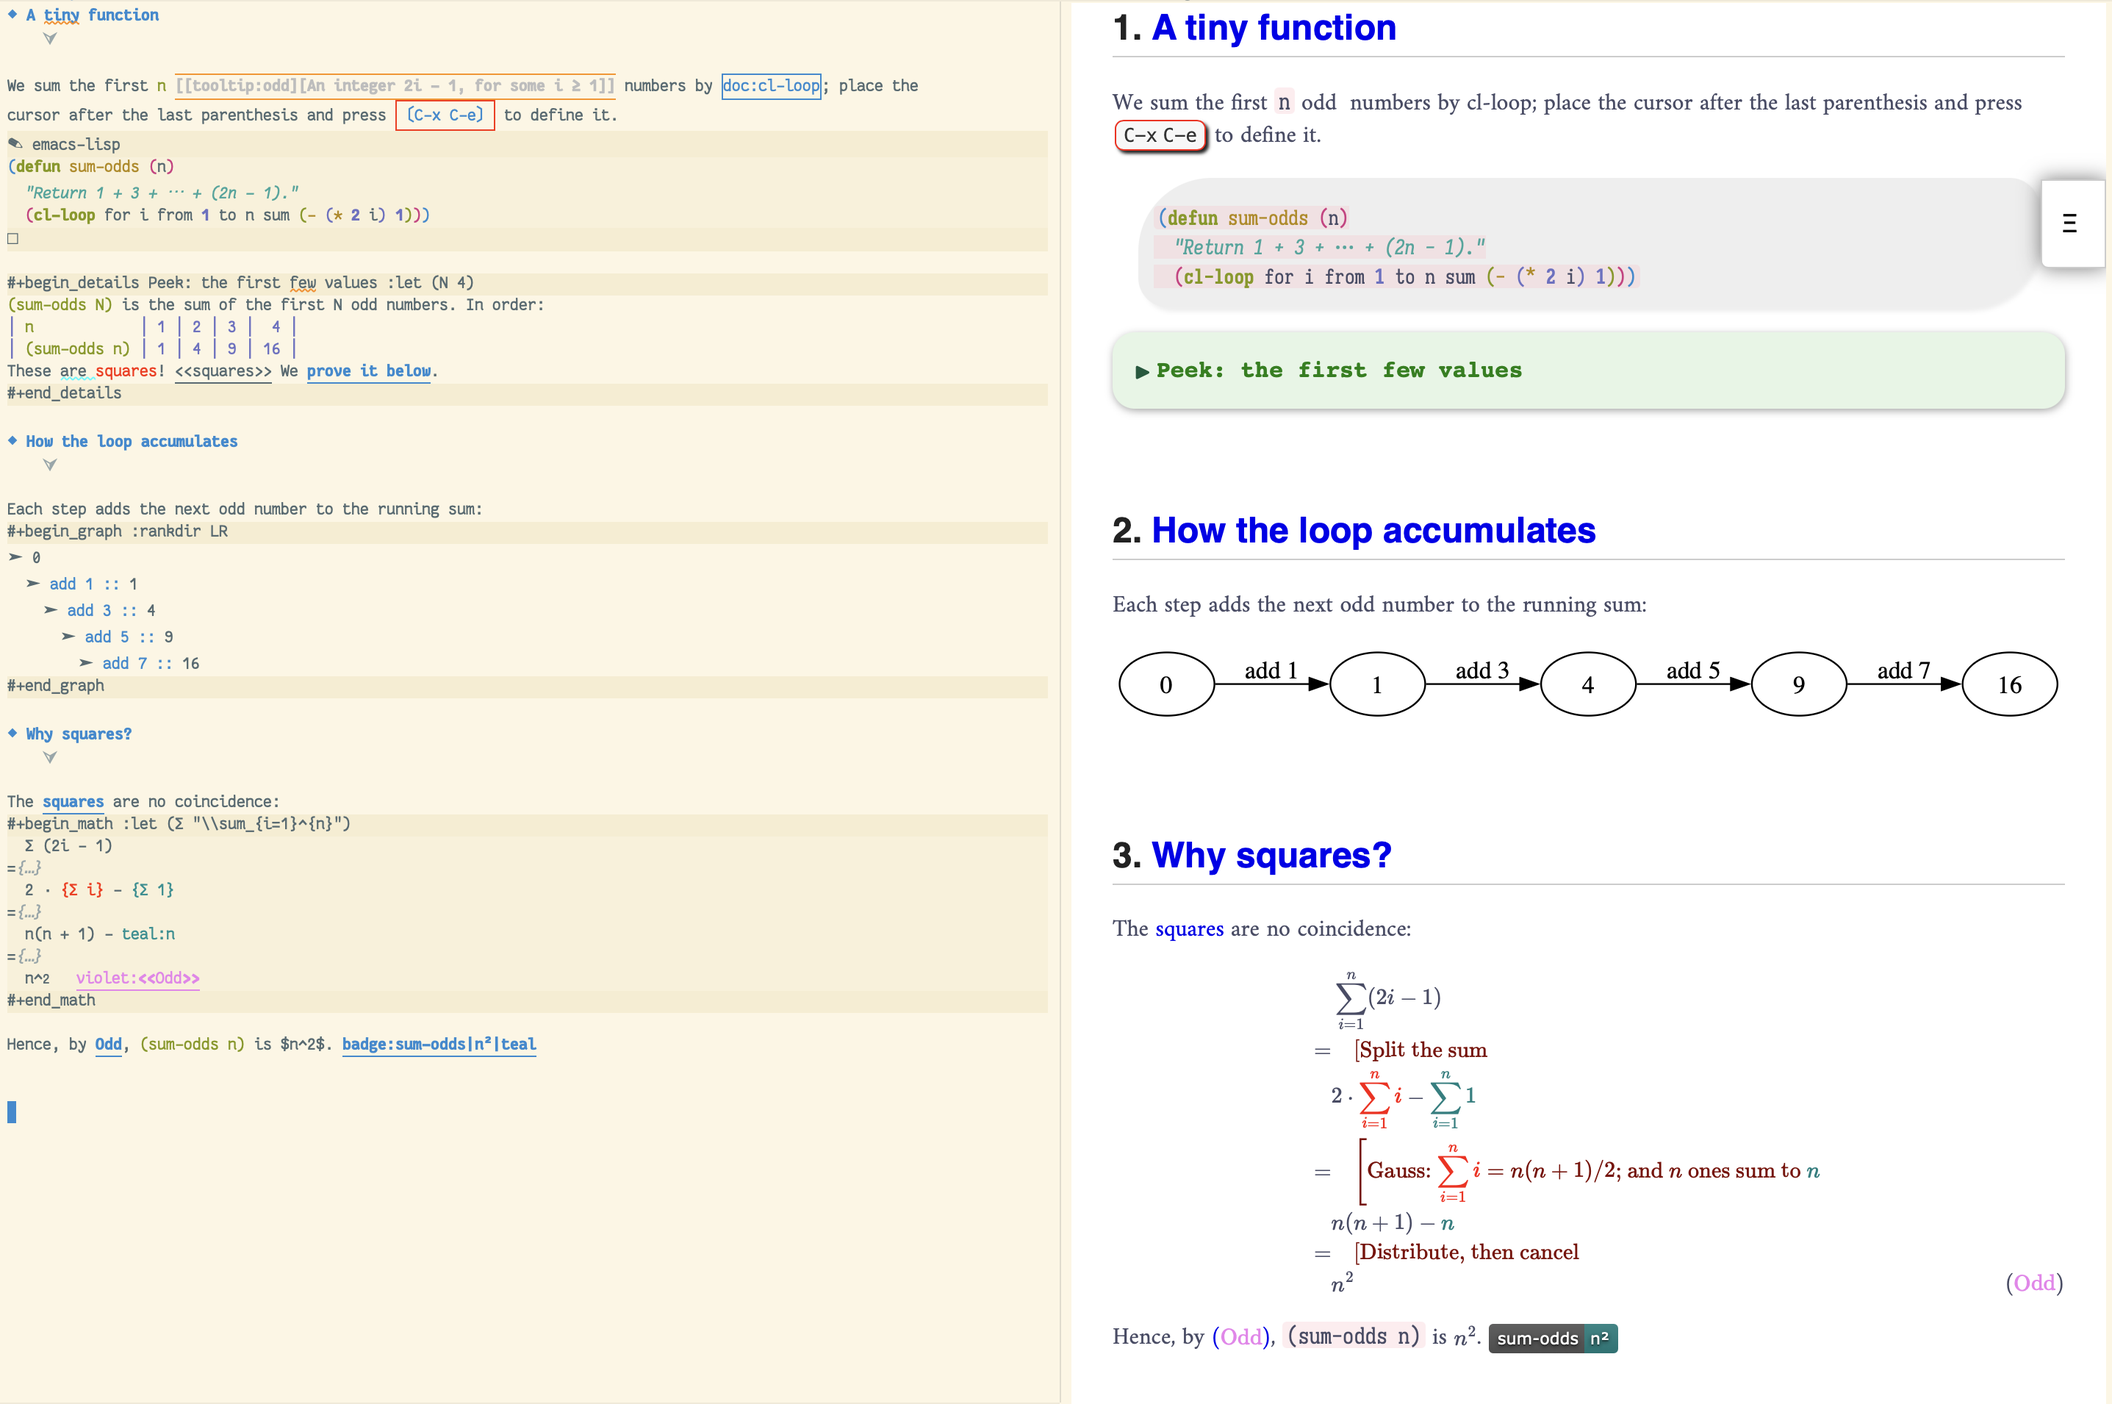
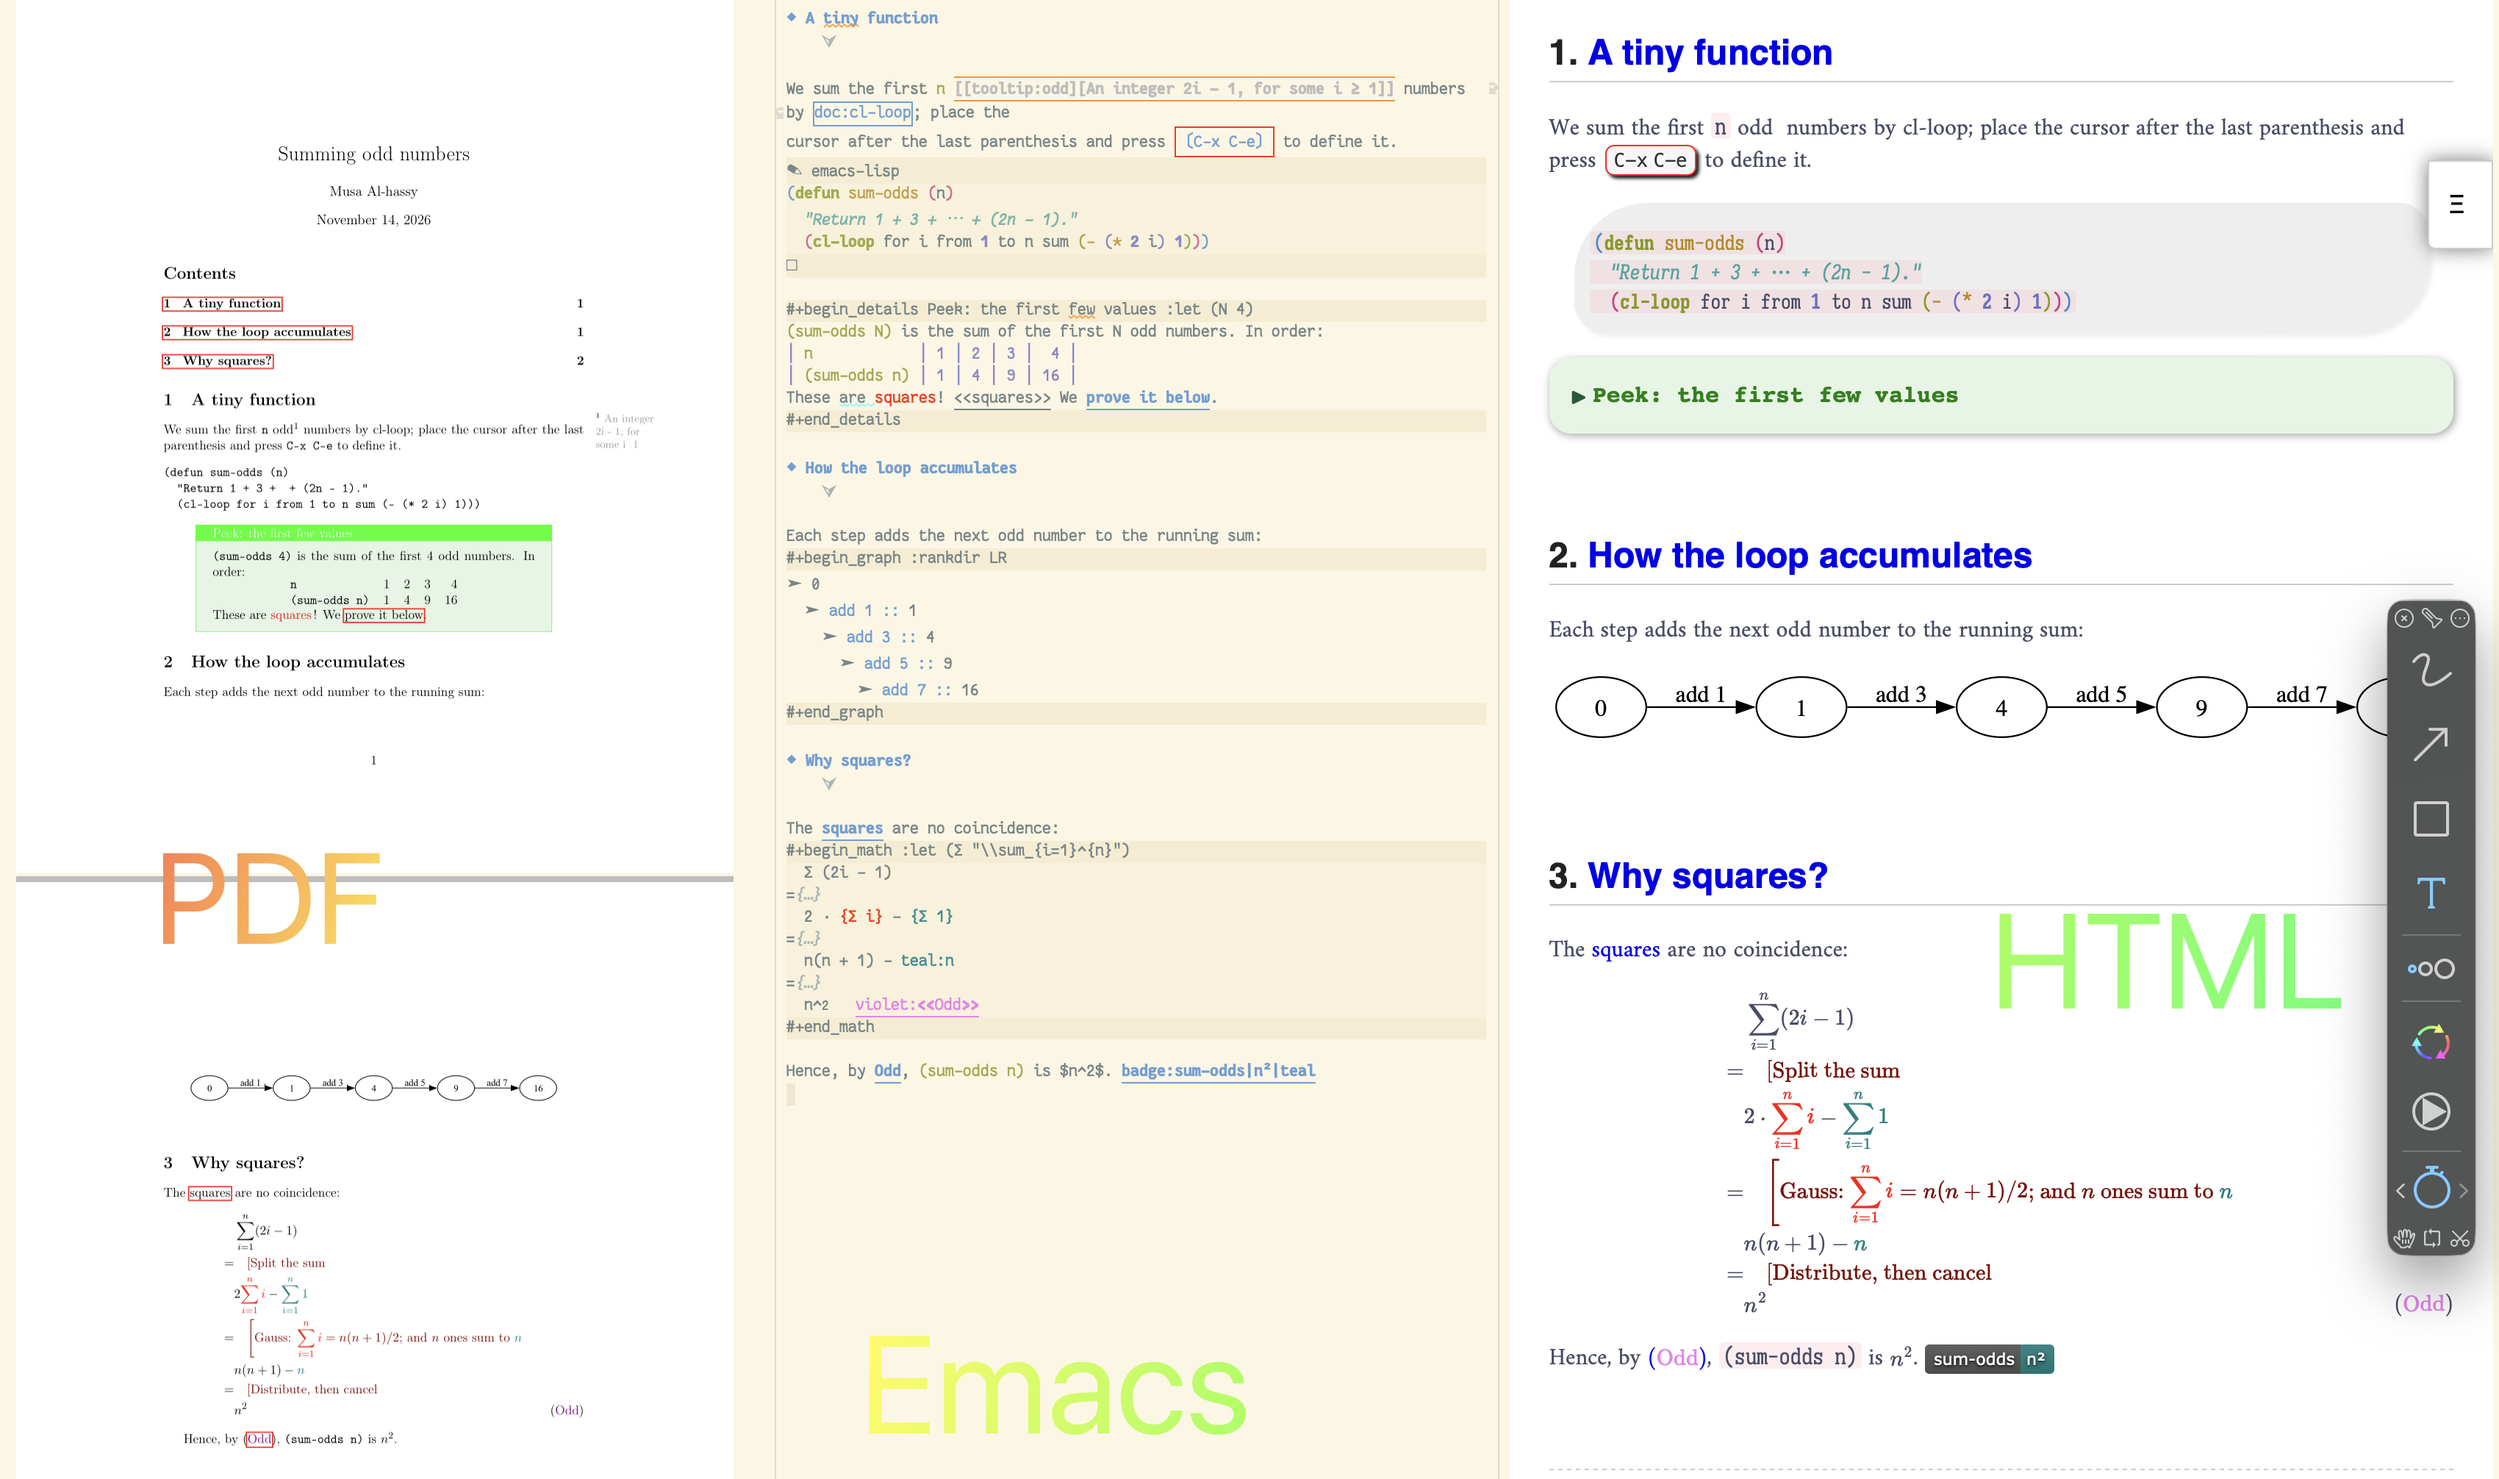
[readme] Show the MWE as PDF, in Emacs, and as HTML, side by side

diff --git a/README.md b/README.md
@@ -160,9 +160,9 @@ The [[squares][squares]] are no coincidence:
 Hence, by [[Odd]], =(sum-odds n)= is $n^2$. badge:sum-odds|n²|teal
 ```
 
-Here it is in Emacs (left) and exported to HTML (right); click it to [interact with it live](https://alhassy.com/org-special-block-extras-mwe):
+Here it is exported to PDF (left), in Emacs (middle), and exported to HTML (right); click it to [interact with it live](https://alhassy.com/org-special-block-extras-mwe):
 
-[![The minimal working example, in Emacs and exported to HTML](images/minimal-working-example.png)](https://alhassy.com/org-special-block-extras-mwe)
+[![The minimal working example, in Emacs and exported to PDF and HTML](images/minimal-working-example.png)](https://alhassy.com/org-special-block-extras-mwe)
 
 ## 📚 Further reading
 
